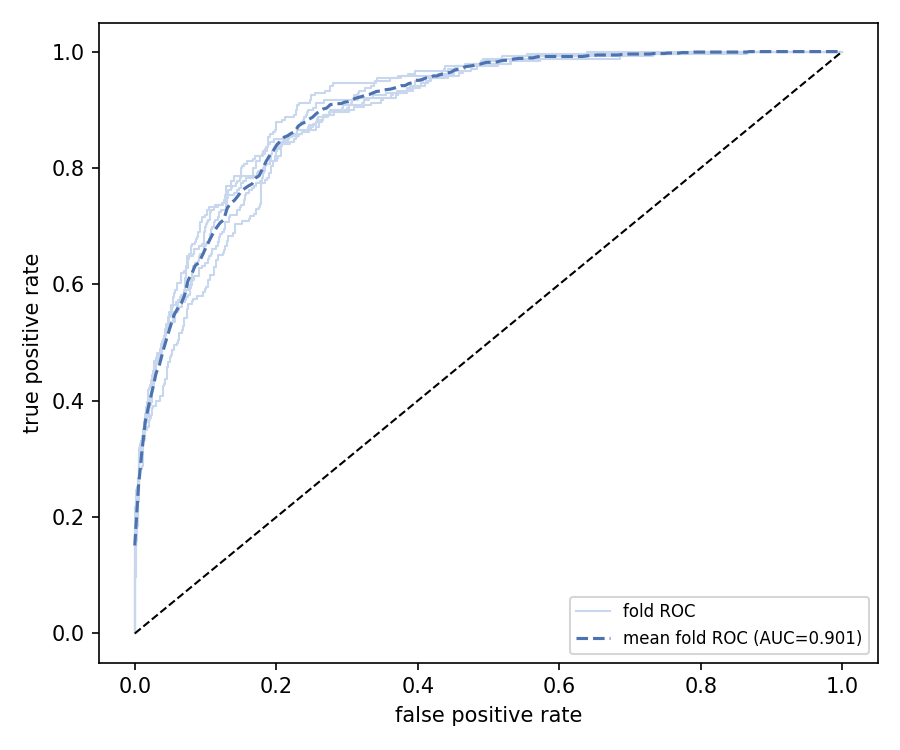
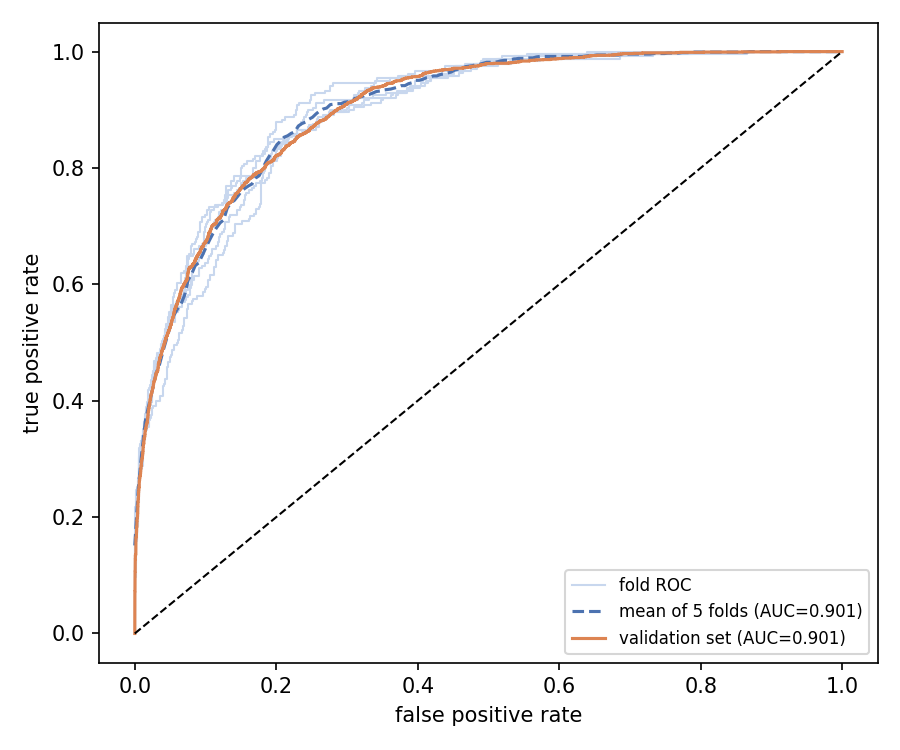
q3.1: per-fold roc and validation curve

diff --git a/Oblig2/exercise3/q3_1_linear_svm.py b/Oblig2/exercise3/q3_1_linear_svm.py
@@ -18,7 +18,7 @@ import matplotlib
 matplotlib.use("Agg")  # works without a display
 import numpy as np
 from matplotlib import pyplot as plt
-from sklearn.metrics import roc_curve
+from sklearn.metrics import roc_auc_score, roc_curve
 import pandas as pd
 
 from src.metrics import cross_validate, evaluate
@@ -43,11 +43,14 @@ print(f"  balanced acc:   {cv.balanced_acc.mean():.4f} +- {cv.balanced_acc.std()
 # Per-split ROC curves, as required (the original 5 fold splits, restricted
 # to the sub-sample).
 fold_rocs = []
+fold_aucs = []
 for tr, va in svm_folds:
     m = svm_pipeline(svm_kwargs)
     m.fit(X_svm.iloc[tr], y_svm.iloc[tr])
     fpr, tpr, _ = roc_curve(y_svm.iloc[va], m.decision_function(X_svm.iloc[va]))
     fold_rocs.append((fpr, tpr))
+    fold_aucs.append(roc_auc_score(y_svm.iloc[va], m.decision_function(X_svm.iloc[va])))
+mean_fold_auc = float(np.mean(fold_aucs))
 
 model = svm_pipeline(svm_kwargs)
 model.fit(X_svm, y_svm)
@@ -66,7 +69,9 @@ mean_fpr = np.linspace(0, 1, 200)
 mean_tpr = np.mean(
     [np.interp(mean_fpr, f, t) for f, t in fold_rocs], axis=0
 )
-ax.plot(mean_fpr, mean_tpr, "--", color="#4c72b0", label=f"mean fold ROC (AUC={val.roc_auc[0]:.3f})")
+ax.plot(mean_fpr, mean_tpr, "--", color="#4c72b0",
+        label=f"mean of {len(fold_rocs)} folds (AUC={mean_fold_auc:.3f})")
+ax.plot(fpr, tpr, "-", color="#dd8452", label=f"validation set (AUC={val.roc_auc[0]:.3f})")
 ax.plot([0, 1], [0, 1], "k--", lw=1)
 ax.set_xlabel("false positive rate")
 ax.set_ylabel("true positive rate")
